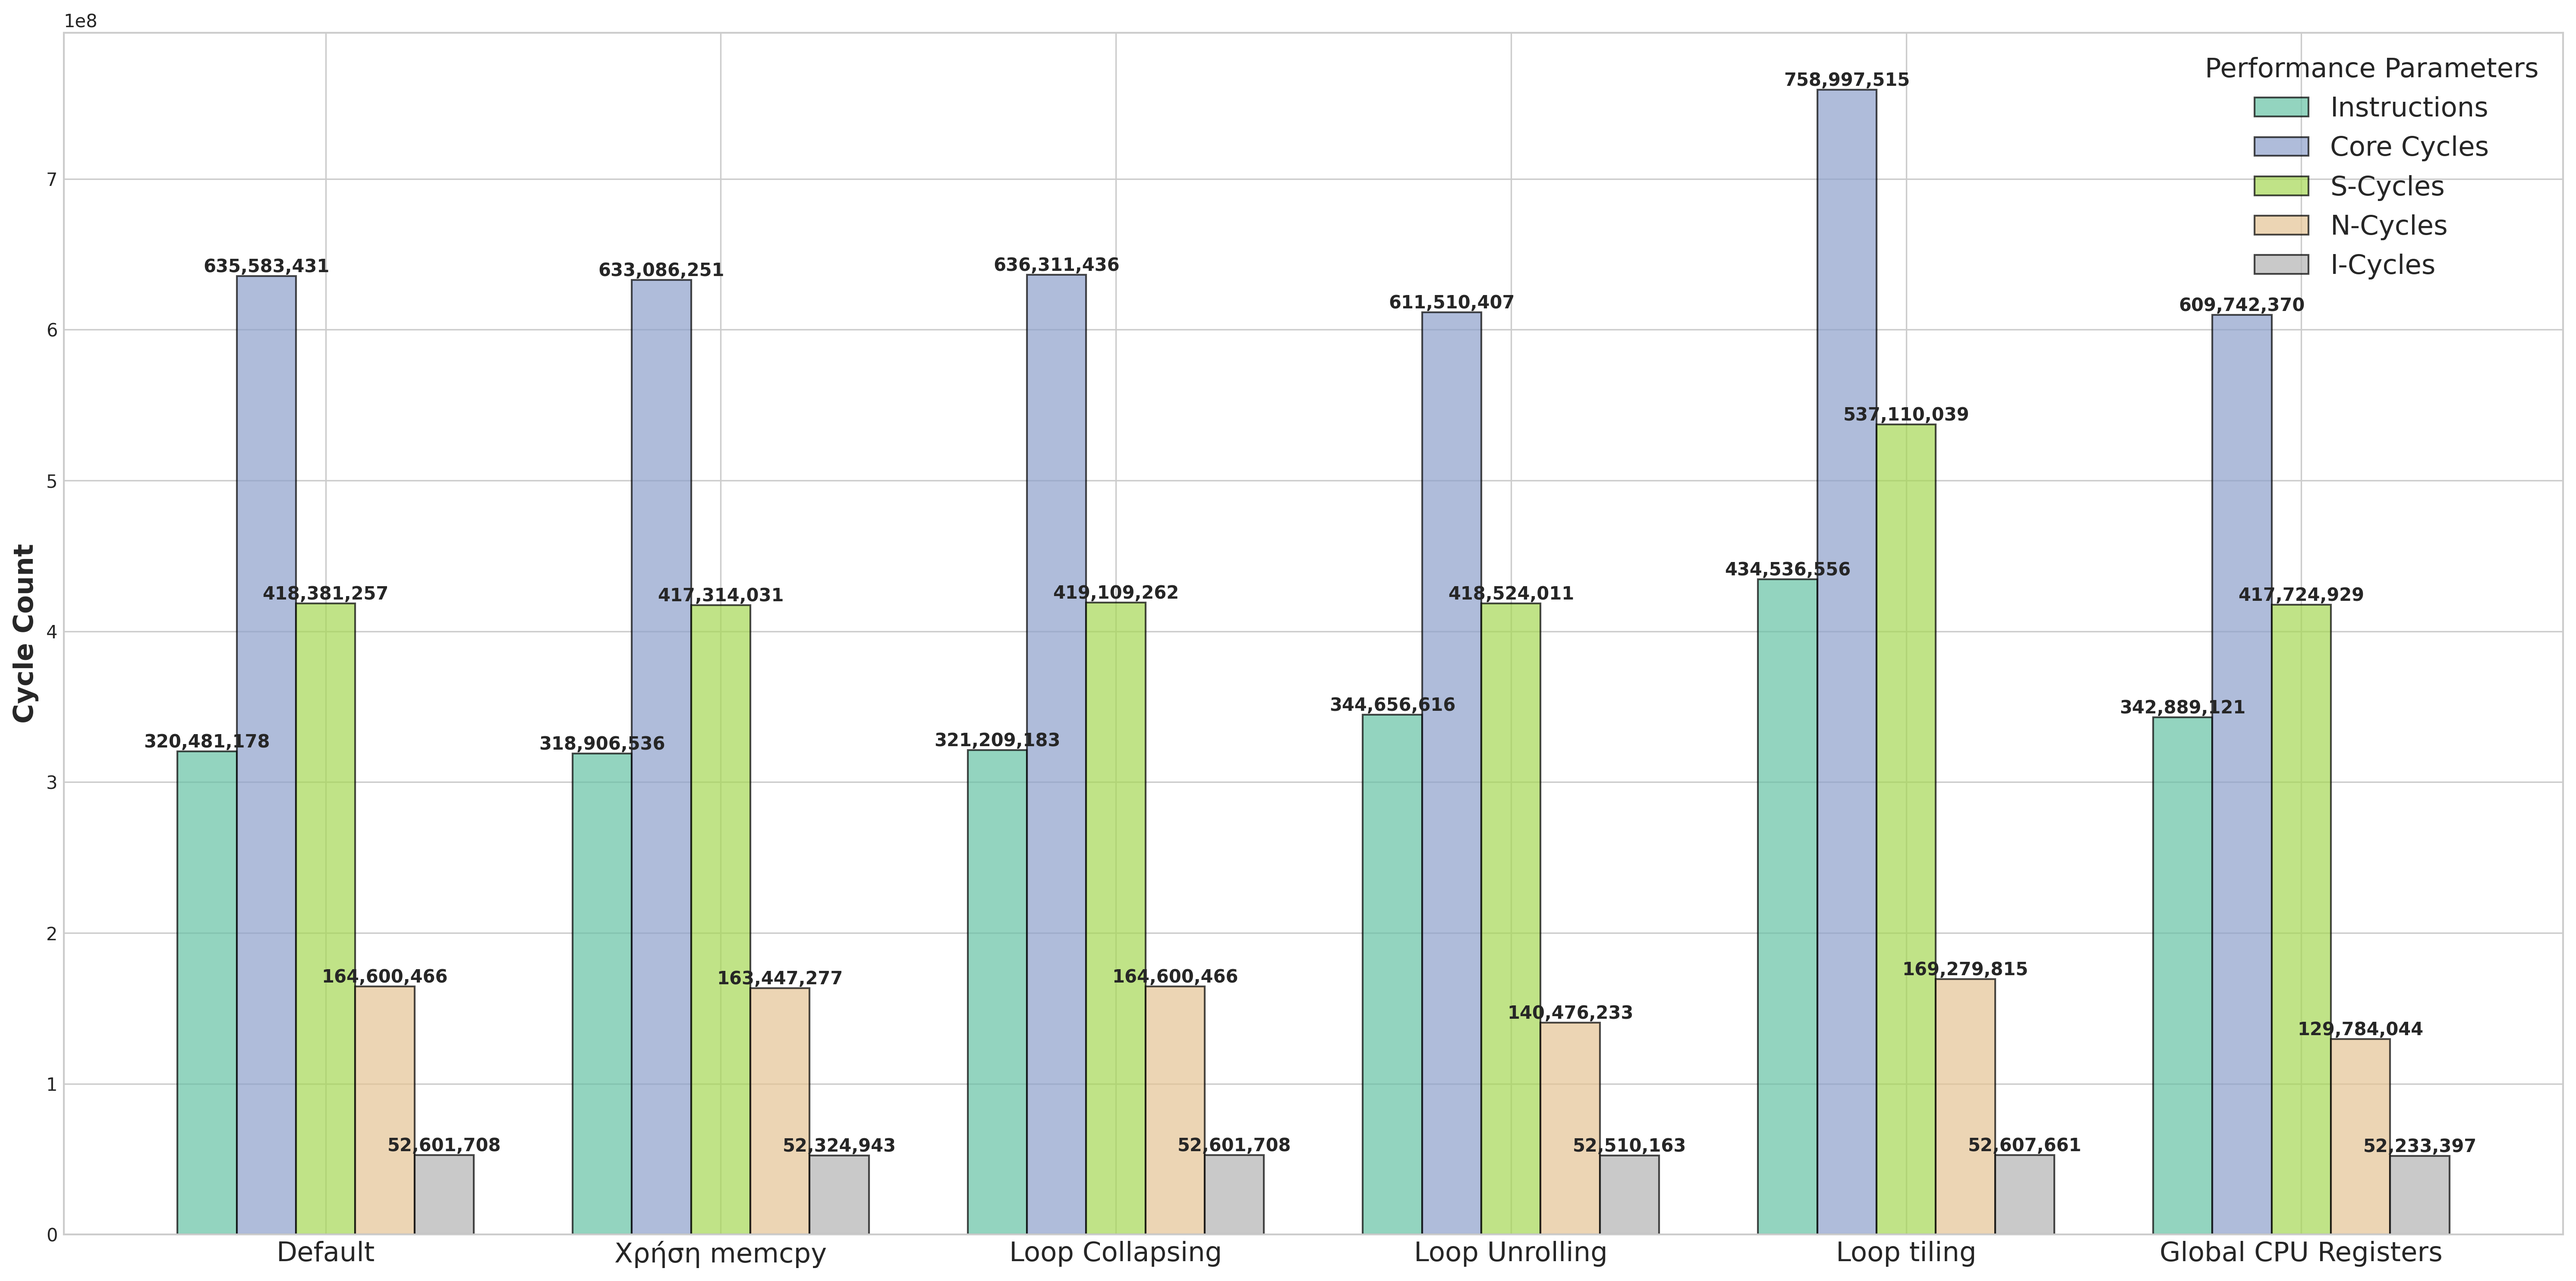
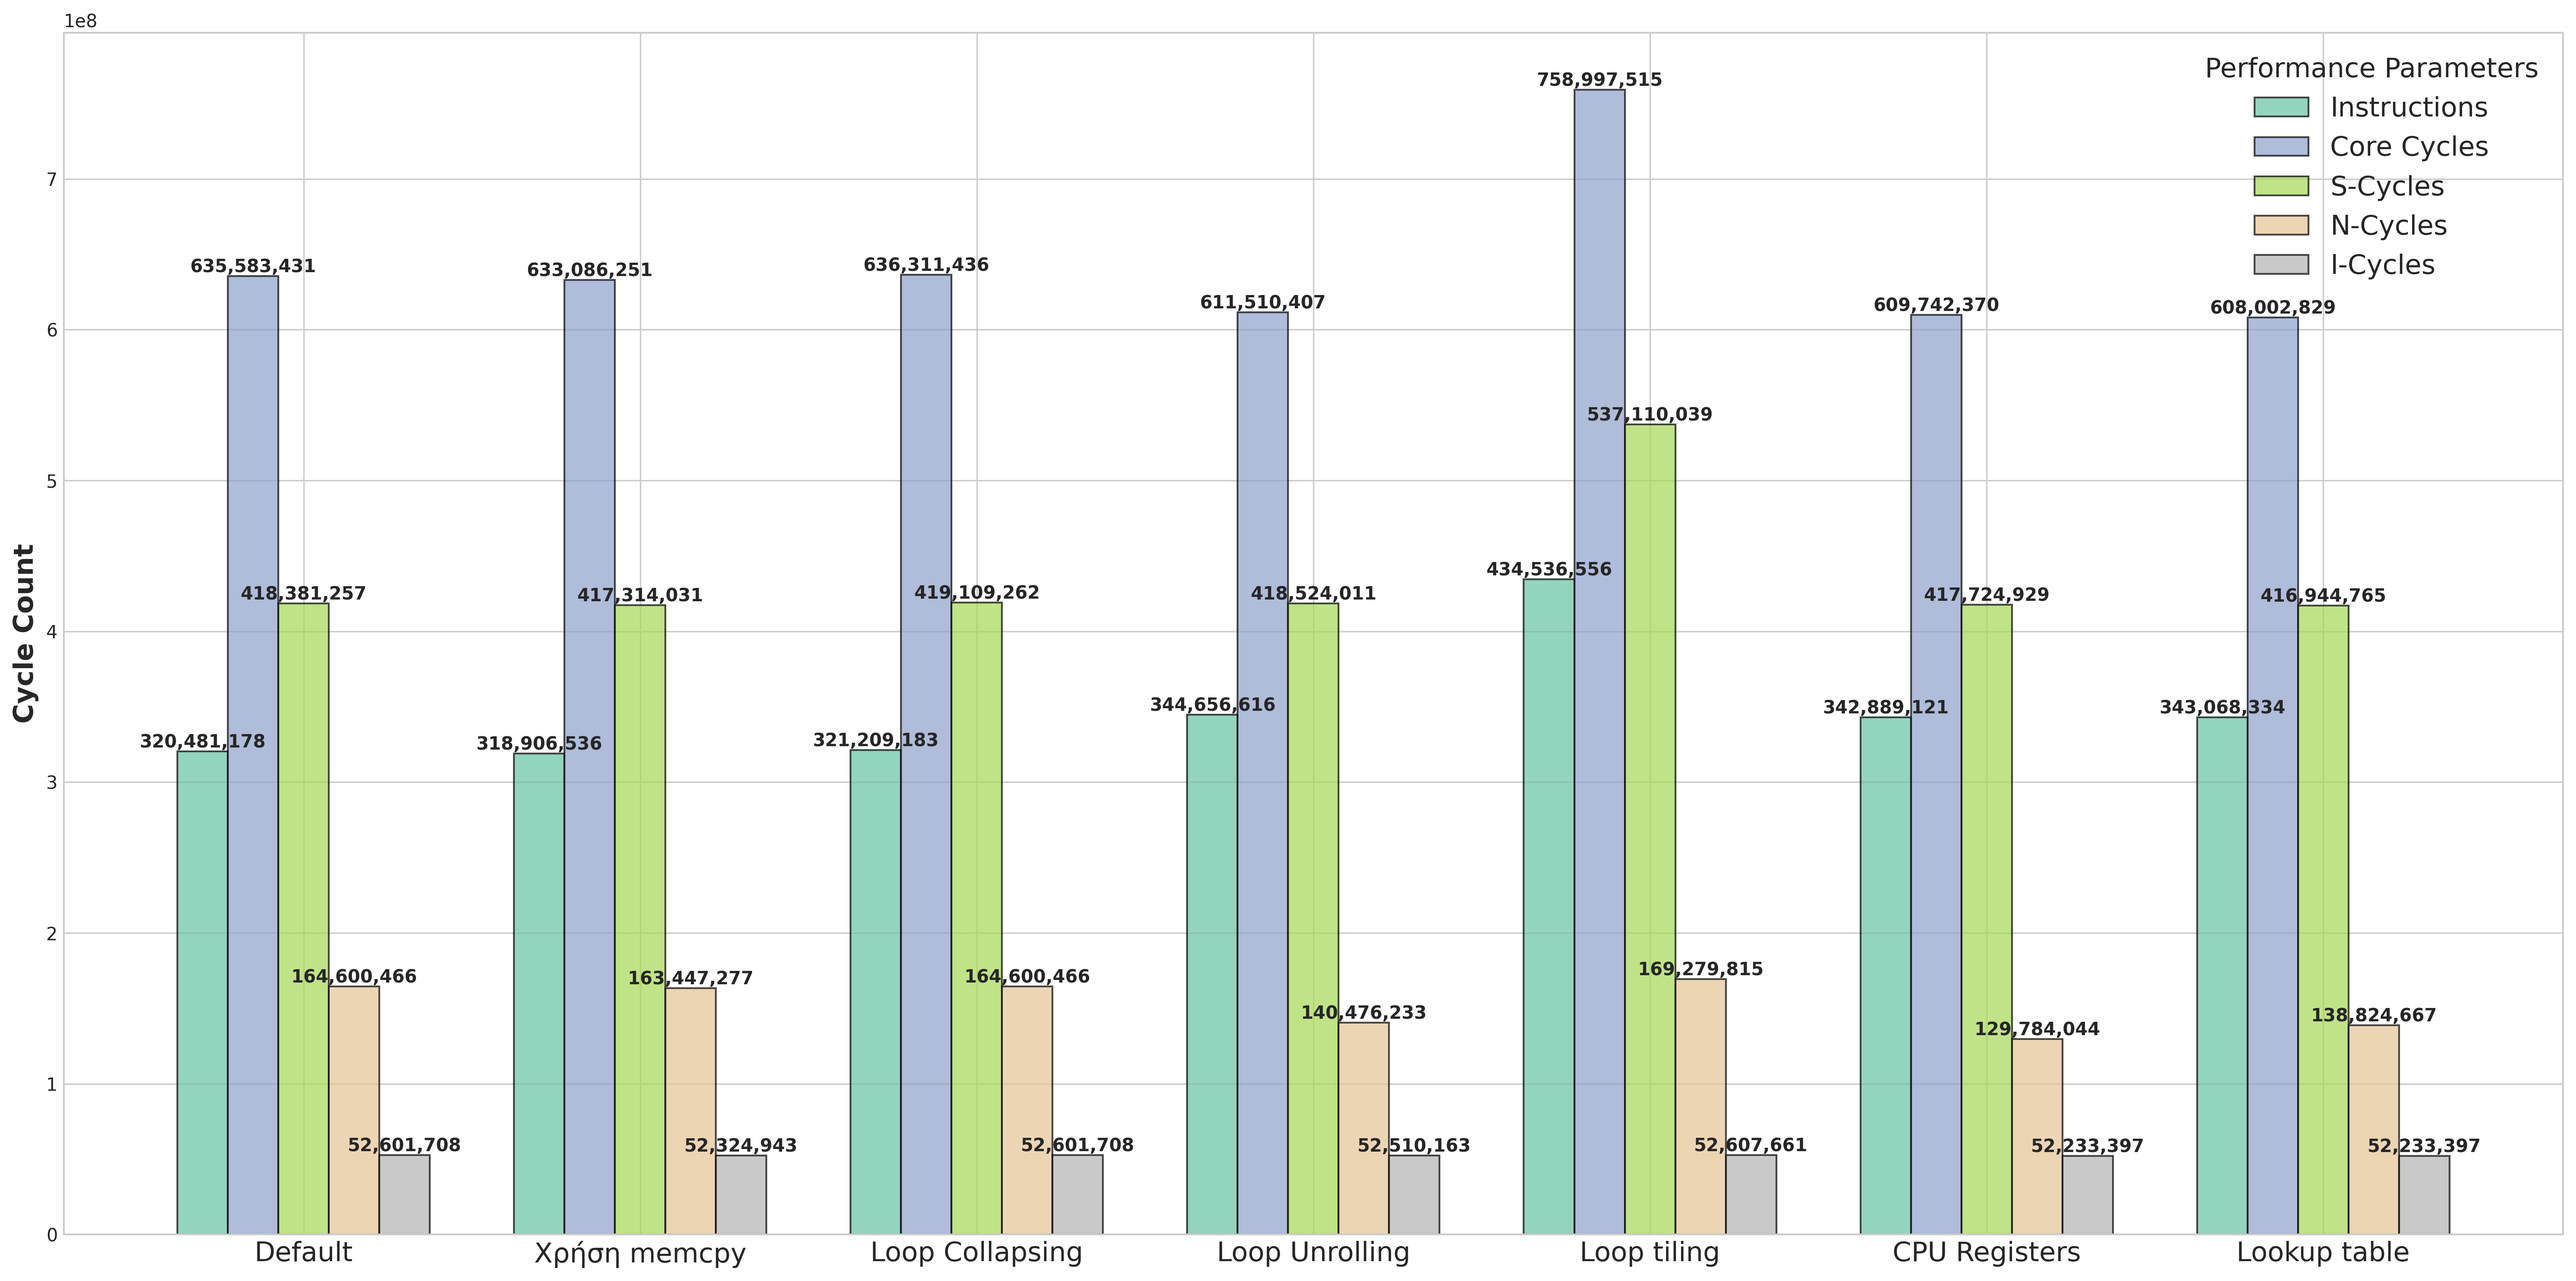
Final version

diff --git a/src/impls/global_reg.c b/src/impls/global_reg.c
@@ -20,61 +20,73 @@ void distance_transformer() {
 
     for (i = 0; i < N; i += 4) {
         for (j = 0; j < M; j += 4) {
-	    temp = (input[i][j] == 0);
-	    distance[i][j] = temp ? 0 : -1;
+            temp = (input[i][j] == 0);
+            distance[i][j] = temp ? 0 : -1;
 
-	    temp = (input[i][j + 1] == 0);
-	    if (j + 1 < M) distance[i][j + 1] = temp ? 0 : -1;
+            temp = (input[i][j + 1] == 0);
+            if (j + 1 < M)
+                distance[i][j + 1] = temp ? 0 : -1;
 
-	    temp = (input[i][j + 2] == 0);
-	    if (j + 2 < M) distance[i][j + 2] = temp ? 0 : -1;
+            temp = (input[i][j + 2] == 0);
+            if (j + 2 < M)
+                distance[i][j + 2] = temp ? 0 : -1;
 
-	    temp = (input[i][j + 3] == 0);
-	    if (j + 3 < M) distance[i][j + 3] = temp ? 0 : -1;
+            temp = (input[i][j + 3] == 0);
+            if (j + 3 < M)
+                distance[i][j + 3] = temp ? 0 : -1;
         }
-	if (i + 1 < N) {
+        if (i + 1 < N) {
             for (j = 0; j < M; j += 4) {
-	        temp = (input[i + 1][j] == 0);
-	        distance[i + 1][j] = temp ? 0 : -1;
+                temp = (input[i + 1][j] == 0);
+                distance[i + 1][j] = temp ? 0 : -1;
 
-	        temp = (input[i + 1][j + 1] == 0);
-	        if (j + 1 < M) distance[i + 1][j + 1] = temp ? 0 : -1;
+                temp = (input[i + 1][j + 1] == 0);
+                if (j + 1 < M)
+                    distance[i + 1][j + 1] = temp ? 0 : -1;
 
-	        temp = (input[i + 1][j + 2] == 0);
-	        if (j + 2 < M) distance[i + 1][j + 2] = temp ? 0 : -1;
+                temp = (input[i + 1][j + 2] == 0);
+                if (j + 2 < M)
+                    distance[i + 1][j + 2] = temp ? 0 : -1;
 
-	        temp = (input[i + 1][j + 3] == 0);
-	        if (j + 3 < M) distance[i + 1][j + 3] = temp ? 0 : -1;
+                temp = (input[i + 1][j + 3] == 0);
+                if (j + 3 < M)
+                    distance[i + 1][j + 3] = temp ? 0 : -1;
             }
         }
-	if (i + 2 < N) {
+        if (i + 2 < N) {
             for (j = 0; j < M; j += 4) {
-	        temp = (input[i + 2][j] == 0);
-	        distance[i + 2][j] = temp ? 0 : -1;
+                temp = (input[i + 2][j] == 0);
+                distance[i + 2][j] = temp ? 0 : -1;
 
-	        temp = (input[i + 2][j + 1] == 0);
-	        if (j + 1 < M) distance[i + 2][j + 1] = temp ? 0 : -1;
+                temp = (input[i + 2][j + 1] == 0);
+                if (j + 1 < M)
+                    distance[i + 2][j + 1] = temp ? 0 : -1;
 
-	        temp = (input[i + 2][j + 2] == 0);
-	        if (j + 2 < M) distance[i + 2][j + 2] = temp ? 0 : -1;
+                temp = (input[i + 2][j + 2] == 0);
+                if (j + 2 < M)
+                    distance[i + 2][j + 2] = temp ? 0 : -1;
 
-	        temp = (input[i + 2][j + 3] == 0);
-	        if (j + 3 < M) distance[i + 2][j + 3] = temp ? 0 : -1;
+                temp = (input[i + 2][j + 3] == 0);
+                if (j + 3 < M)
+                    distance[i + 2][j + 3] = temp ? 0 : -1;
             }
         }
-	if (i + 3 < N) {
+        if (i + 3 < N) {
             for (j = 0; j < M; j += 4) {
-	        temp = (input[i + 3][j] == 0);
-	        distance[i + 3][j] = temp ? 0 : -1;
+                temp = (input[i + 3][j] == 0);
+                distance[i + 3][j] = temp ? 0 : -1;
 
-	        temp = (input[i + 3][j + 1] == 0);
-	        if (j + 1 < M) distance[i + 3][j + 1] = temp ? 0 : -1;
+                temp = (input[i + 3][j + 1] == 0);
+                if (j + 1 < M)
+                    distance[i + 3][j + 1] = temp ? 0 : -1;
 
-	        temp = (input[i + 3][j + 2] == 0);
-	        if (j + 2 < M) distance[i + 3][j + 2] = temp ? 0 : -1;
+                temp = (input[i + 3][j + 2] == 0);
+                if (j + 2 < M)
+                    distance[i + 3][j + 2] = temp ? 0 : -1;
 
-	        temp = (input[i + 3][j + 3] == 0);
-	        if (j + 3 < M) distance[i + 3][j + 3] = temp ? 0 : -1;
+                temp = (input[i + 3][j + 3] == 0);
+                if (j + 3 < M)
+                    distance[i + 3][j + 3] = temp ? 0 : -1;
             }
         }
     }
@@ -105,7 +117,7 @@ void distance_transformer() {
                         transformed = 1;
                     }
                 }
-		if (j + 1 < M) {
+                if (j + 1 < M) {
                     if (distance[i][j + 1] == k - 1) {
                         if (i > 0 && distance[i - 1][j + 1] == -1) {
                             distance[i - 1][j + 1] = k;

diff --git a/src/impls/lookup_table.c b/src/impls/lookup_table.c
@@ -1,0 +1,154 @@
+#include <string.h>
+
+#include "opts.h"
+
+__global_reg(1) int i; /* r4 */
+__global_reg(2) int j; /* r5 */
+
+#pragma Otime
+void distance_transformer() {
+    __align(8) int input[N][M];
+    __align(8) int distance[N][M];
+    __align(8) int k = 1;
+    __align(8) int temp = 0;
+    __align(8) int f[2] = {-1, 0};
+
+    i = 0;
+    j = 0;
+
+    memcpy(input, current_y, N * M * sizeof(int));
+
+    for (i = 0; i < N; i += 4) {
+        for (j = 0; j < M; j += 4) {
+            temp = !(input[i][j]);
+            distance[i][j] = f[temp];
+
+            if (j + 1 < M) {
+                temp = !(input[i][j + 1]);
+                distance[i][j + 1] = f[temp];
+            }
+
+            if (j + 2 < M) {
+                temp = !(input[i][j + 2]);
+                distance[i][j + 2] = f[temp];
+            }
+
+            if (j + 3 < M) {
+                temp = !(input[i][j + 3]);
+                distance[i][j + 3] = f[temp];
+            }
+        }
+        if (i + 1 < N) {
+            for (j = 0; j < M; j += 4) {
+                temp = !(input[i + 1][j]);
+                distance[i + 1][j] = f[temp];
+
+                if (j + 1 < M) {
+                    temp = !(input[i + 1][j + 1]);
+                    distance[i + 1][j + 1] = f[temp];
+                }
+
+                if (j + 2 < M) {
+                    temp = !(input[i + 1][j + 2]);
+                    distance[i + 1][j + 2] = f[temp];
+                }
+
+                if (j + 3 < M) {
+                    temp = !(input[i + 1][j + 3]);
+                    distance[i + 1][j + 3] = f[temp];
+                }
+            }
+        }
+        if (i + 2 < N) {
+            for (j = 0; j < M; j += 4) {
+                temp = !(input[i + 2][j]);
+                distance[i + 2][j] = f[temp];
+
+                if (j + 1 < M) {
+                    temp = !(input[i + 2][j + 1]);
+                    distance[i + 2][j + 1] = f[temp];
+                }
+
+                if (j + 2 < M) {
+                    temp = !(input[i + 2][j + 2]);
+                    distance[i + 2][j + 2] = f[temp];
+                }
+
+                if (j + 3 < M) {
+                    temp = !(input[i + 2][j + 3]);
+                    distance[i + 2][j + 3] = f[temp];
+                }
+            }
+        }
+        if (i + 3 < N) {
+            for (j = 0; j < M; j += 4) {
+                temp = !(input[i + 3][j]);
+                distance[i + 3][j] = f[temp];
+
+                if (j + 1 < M) {
+                    temp = !(input[i + 3][j + 1]);
+                    distance[i + 3][j + 1] = f[temp];
+                }
+
+                if (j + 2 < M) {
+                    temp = !(input[i + 3][j + 2]);
+                    distance[i + 3][j + 2] = f[temp];
+                }
+
+                if (j + 3 < M) {
+                    temp = !(input[i + 3][j + 3]);
+                    distance[i + 3][j + 3] = f[temp];
+                }
+            }
+        }
+    }
+
+LOOP:
+    for (i = 0; i < N; i++) {
+        for (j = 0; j < M; j += 2) {
+            if (distance[i][j] == k - 1) {
+                if (i > 0 && distance[i - 1][j] == -1) {
+                    distance[i - 1][j] = k;
+                }
+
+                if (i < N - 1 && distance[i + 1][j] == -1) {
+                    distance[i + 1][j] = k;
+                }
+
+                if (j > 0 && distance[i][j - 1] == -1) {
+                    distance[i][j - 1] = k;
+                }
+
+                if (j < M - 1 && distance[i][j + 1] == -1) {
+                    distance[i][j + 1] = k;
+                }
+            }
+            if (j + 1 < M) {
+                if (distance[i][j + 1] == k - 1) {
+                    if (i > 0 && distance[i - 1][j + 1] == -1) {
+                        distance[i - 1][j + 1] = k;
+                    }
+
+                    if (i < N - 1 && distance[i + 1][j + 1] == -1) {
+                        distance[i + 1][j + 1] = k;
+                    }
+
+                    if (j > -1 && distance[i][j] == -1) {
+                        distance[i][j] = k;
+                    }
+
+                    if (j < M - 2 && distance[i][j + 2] == -1) {
+                        distance[i][j + 2] = k;
+                    }
+                }
+            }
+        }
+    }
+
+    if (k < 255) {
+        k++;
+        goto LOOP;
+    }
+
+    memcpy(current_y, distance, N * M * sizeof(int));
+}

diff --git a/src/impls/partial_loop_unrolling.c b/src/impls/partial_loop_unrolling.c
@@ -11,18 +11,24 @@ void distance_transformer() {
     for (i = 0; i < N; i++) {
         for (j = 0; j < M; j += 4) {
             input[i][j] = current_y[i][j];
-            if (j + 1 < M) input[i][j + 1] = current_y[i][j + 1];
-            if (j + 2 < M) input[i][j + 2] = current_y[i][j + 2];
-            if (j + 3 < M) input[i][j + 3] = current_y[i][j + 3];
+            if (j + 1 < M)
+                input[i][j + 1] = current_y[i][j + 1];
+            if (j + 2 < M)
+                input[i][j + 2] = current_y[i][j + 2];
+            if (j + 3 < M)
+                input[i][j + 3] = current_y[i][j + 3];
         }
     }
 
     for (i = 0; i < N; i++) {
         for (j = 0; j < M; j += 4) {
             distance[i][j] = (input[i][j] == 0) ? 0 : -1;
-            if (j + 1 < M) distance[i][j + 1] = (input[i][j + 1] == 0) ? 0 : -1;
-            if (j + 2 < M) distance[i][j + 2] = (input[i][j + 2] == 0) ? 0 : -1;
-            if (j + 3 < M) distance[i][j + 3] = (input[i][j + 3] == 0) ? 0 : -1;
+            if (j + 1 < M)
+                distance[i][j + 1] = (input[i][j + 1] == 0) ? 0 : -1;
+            if (j + 2 < M)
+                distance[i][j + 2] = (input[i][j + 2] == 0) ? 0 : -1;
+            if (j + 3 < M)
+                distance[i][j + 3] = (input[i][j + 3] == 0) ? 0 : -1;
         }
     }
 
@@ -53,7 +59,7 @@ void distance_transformer() {
                     }
                 }
 
-		if (j + 1 < M && distance[i][j + 1] == k - 1) {
+                if (j + 1 < M && distance[i][j + 1] == k - 1) {
                     if (i > 0 && distance[i - 1][j + 1] == -1) {
                         distance[i - 1][j + 1] = k;
                         transformed = 1;
@@ -87,9 +93,12 @@ void distance_transformer() {
     for (i = 0; i < N; i++) {
         for (j = 0; j < M; j += 4) {
             current_y[i][j] = distance[i][j];
-            if (j + 1 < M) current_y[i][j + 1] = distance[i][j + 1];
-            if (j + 2 < M) current_y[i][j + 2] = distance[i][j + 2];
-            if (j + 3 < M) current_y[i][j + 3] = distance[i][j + 3];
+            if (j + 1 < M)
+                current_y[i][j + 1] = distance[i][j + 1];
+            if (j + 2 < M)
+                current_y[i][j + 2] = distance[i][j + 2];
+            if (j + 3 < M)
+                current_y[i][j + 3] = distance[i][j + 3];
         }
     }
 }

diff --git a/scripts/optimized_comparison.py b/scripts/optimized_comparison.py
@@ -10,7 +10,8 @@ techniques = [
     "Loop Collapsing",
     "Loop Unrolling",
     "Loop tiling",
-    "Global CPU Registers",
+    "CPU Registers",
+    "Lookup table",
 ]
 parameters = ["Instructions", "Core Cycles", "S-Cycles", "N-Cycles", "I-Cycles"]
 data = [
@@ -20,6 +21,7 @@ data = [
     [344656616, 611510407, 418524011, 140476233, 52510163],  # Loop Unrolling
     [434536556, 758997515, 537110039, 169279815, 52607661],  # Loop tiling
     [342889121, 609742370, 417724929, 129784044, 52233397],  # Global CPU Registers
+    [343068334, 608002829, 416944765, 138824667, 52233397],  # Lookup tablee
 ]
 data = np.array(data)
 

diff --git a/src/impls/loop_collapsing.c b/src/impls/loop_collapsing.c
@@ -48,10 +48,10 @@ void distance_transformer() {
                 }
             }
         }
-        
+
         if (!transformed)
             break;
-        
+
         if (k < 255)
             k++;
     }
